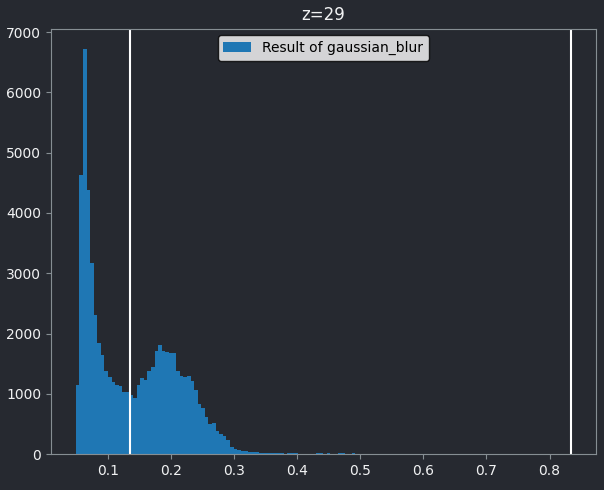
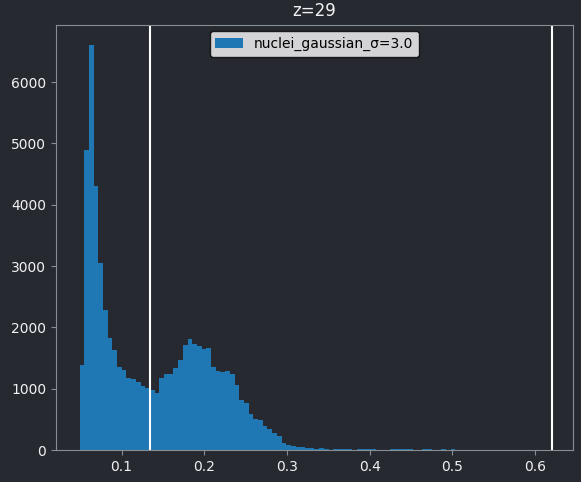
update filters and thresholding episode with changes from review

diff --git a/episodes/filters-and-thresholding.md b/episodes/filters-and-thresholding.md
@@ -323,7 +323,10 @@ Try increasing the 'sigma' value to three and clicking run again:
 ![](fig/nuclei-blurred-3.png){alt="Nuclei image after gaussian blur with sigma 
 of 3" width='40%'}
 
-You should see a new 'nuclei_gaussian_σ=3.0' layer that is much more heavily blurred.
+You should see a new 'nuclei_gaussian_σ=3.0' layer that is much more heavily blurred. 
+If you used the `+`/`-` buttons to set the sigma value, you may see many more 
+decimal places in the layer name e.g. 'nuclei_gaussian_σ=3.00000000000000'. 
+If so, double click on the layer name to re-name it to `nuclei_gaussian_σ=3.0`.
 
 What's happening here? What exactly does a gaussian blur do? A gaussian blur is 
 an example of a 'linear filter' which is used to manipulate pixel values in 
@@ -506,16 +509,15 @@ shrink in size. Increasing the 'Footprint size' of the filter enhances the effec
 
 ## Thresholding the blurred image
 
-First, let's clean up our layer list. Make sure you only have the 'nuclei' and 
-'nuclei_gaussian_σ=1.0' layers in the layer list - select any others and 
-remove them by clicking the ![](
+First, let's clean up our layer list. Make sure you only have the 'nuclei' 
+layer in the layer list - select any others and remove them by clicking the ![](
 https://raw.githubusercontent.com/napari/napari/main/src/napari/resources/icons/delete.svg
 ){alt="A screenshot of Napari's delete layer button" height='30px'} icon. Also, 
 close all filter settings panels on the right side of Napari (apart from the 
 gaussian settings) by clicking the tiny `X` icon at their top left corner.
 
 Now let's try thresholding our image again. Make sure you set your gaussian blur 
-sigma to three, then click 'Run'.
+sigma to three, then click 'Apply Gaussian Filter'.
 
 Then, we'll apply the same threshold as before, now to the 
 'nuclei_gaussian_σ=3.0' layer:
@@ -700,7 +702,7 @@ Try:
 - `li`
 - `sauvola`
 
-How do they compare to standard `otsu` thresholding?
+How do they compare to `otsu` thresholding?
 
 Recall that you can change the colour of a mask by clicking the ![](
 https://raw.githubusercontent.com/napari/napari/main/src/napari/resources/icons/shuffle.svg
@@ -711,7 +713,7 @@ row of the layer controls.
 
 ## Solution
 
-Standard Otsu thresholding chooses a threshold that separates the background 
+Otsu thresholding chooses a threshold that separates the background 
 from the three shapes:
 
 ![](fig/otsu-shapes.png){alt="Mask of shapes (brown) overlaid on shapes image - 
